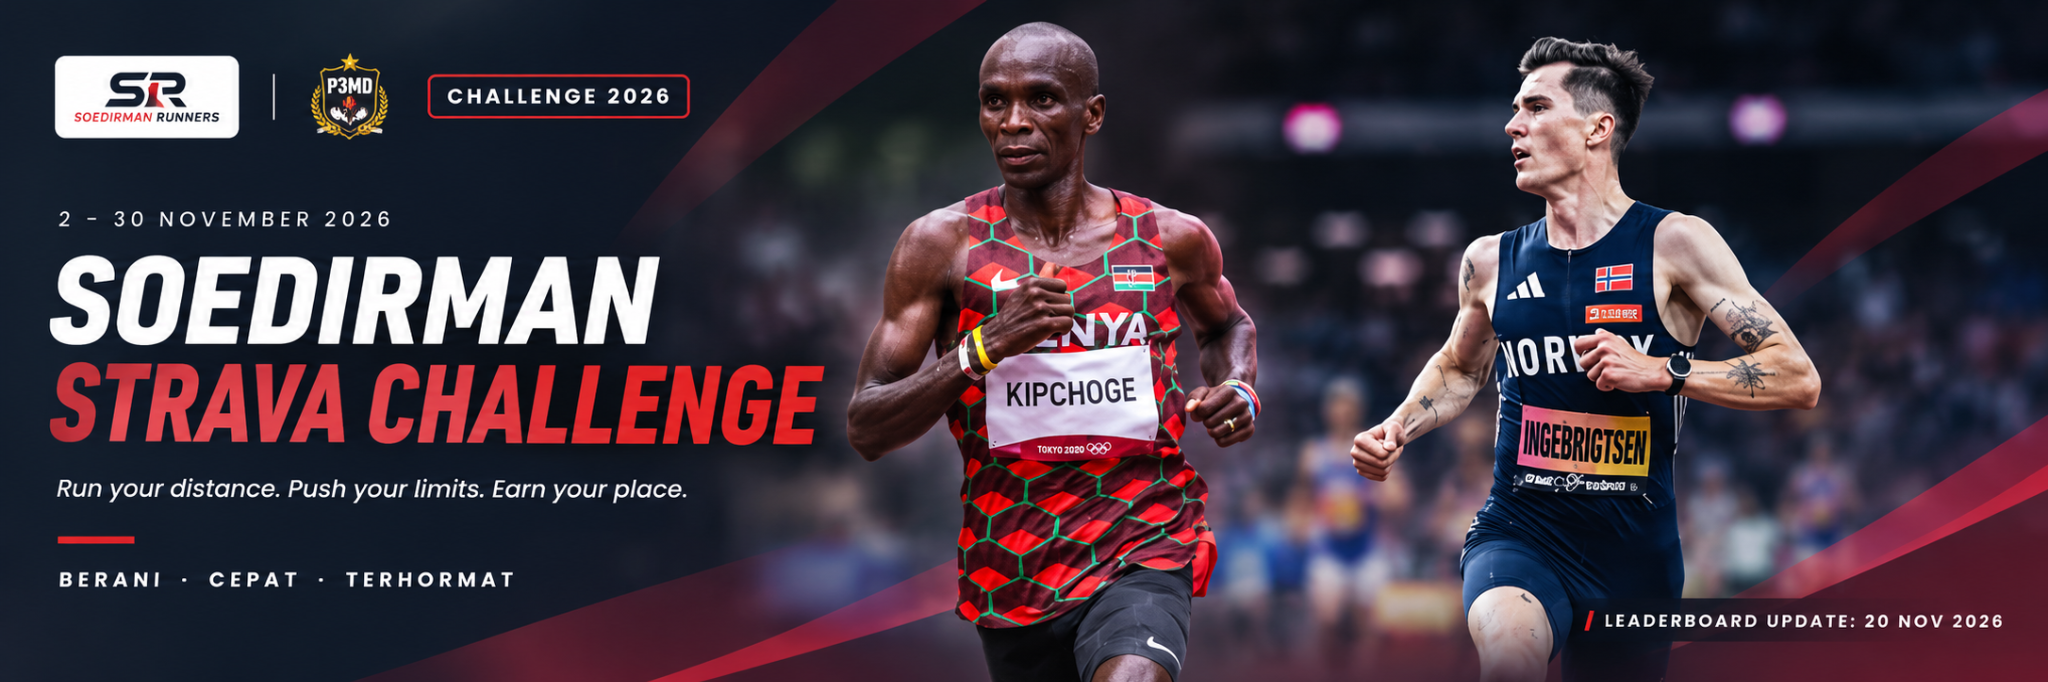
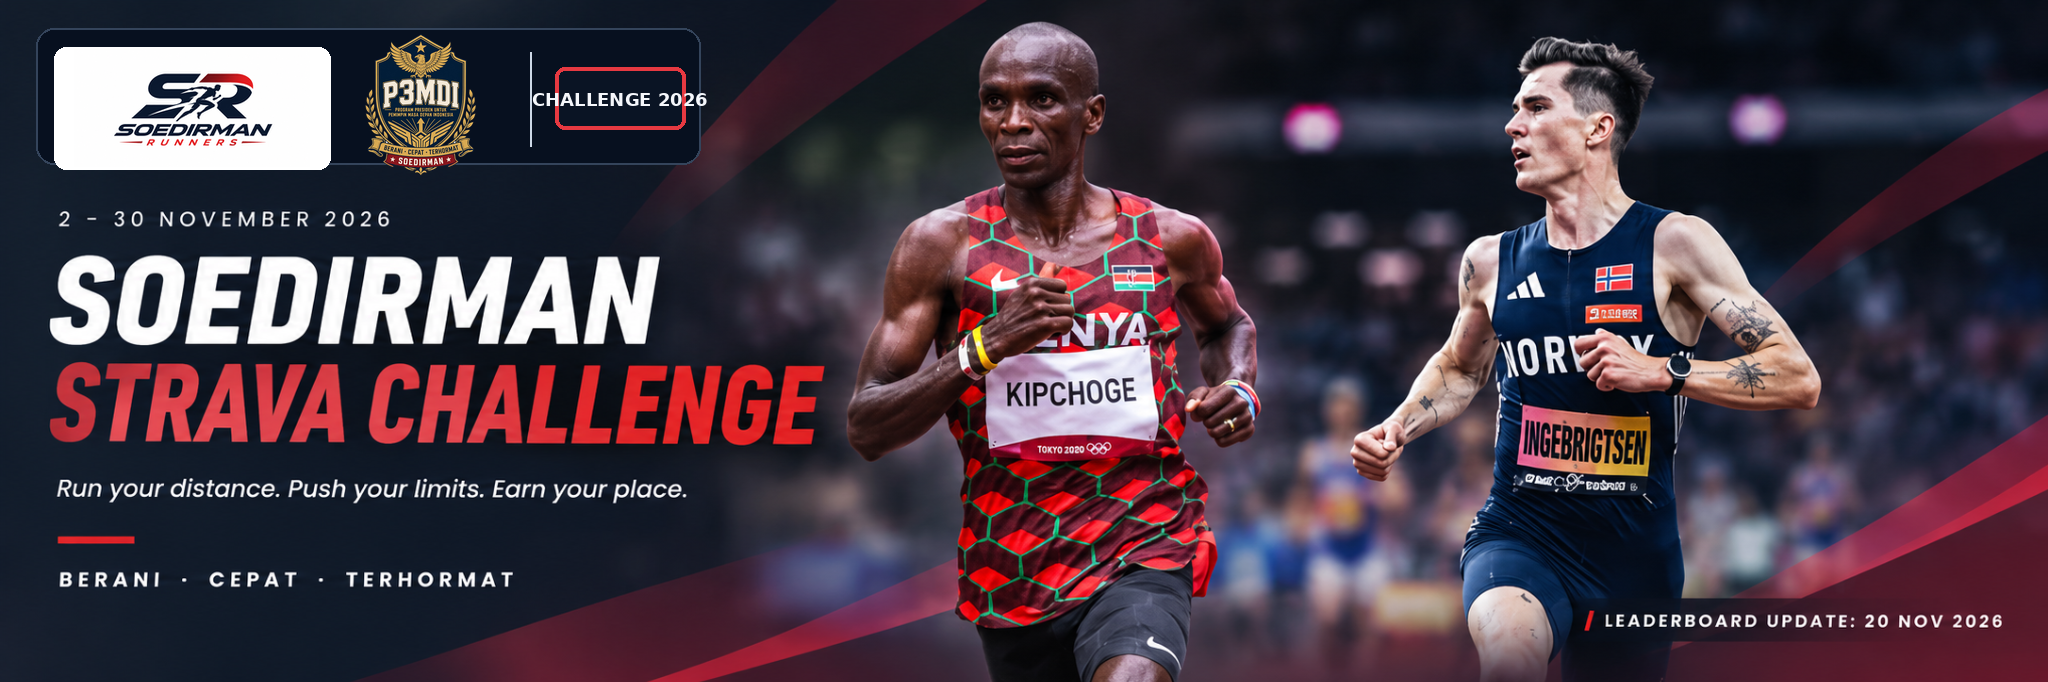
Add files via upload

Changed region(s): [[0.0, 0.0308, 0.3438, 0.2463]]

diff --git a/README.md b/README.md
@@ -1,13 +1,5 @@
 # Soedirman Strava Challenge Dashboard
 
-## Update 20 November 2026
+Dashboard update: 20 November 2026.
 
-Dashboard leaderboard dengan tema dark navy, merah, dan putih. Header menggunakan banner final yang memadukan foto Eliud Kipchoge dan Jakob Ingebrigtsen sesuai desain yang diberikan.
-
-Fitur yang dipertahankan: pencarian peserta, filter Lucky Finisher (minimal 30 km), dan sorting berdasarkan jarak, aktivitas, average pace, estimasi total time, serta elevasi.
-
-## Deploy
-1. Extract ZIP.
-2. Replace seluruh file repository GitHub dengan isi ZIP.
-3. Commit dan push ke branch `main`.
-4. Vercel akan melakukan deployment otomatis.
+The hero banner uses the supplied Soedirman Runners and P3MDI logo files as image overlays without AI redraw. Replace the repository contents with this ZIP and push to `main` to trigger Vercel deployment.
